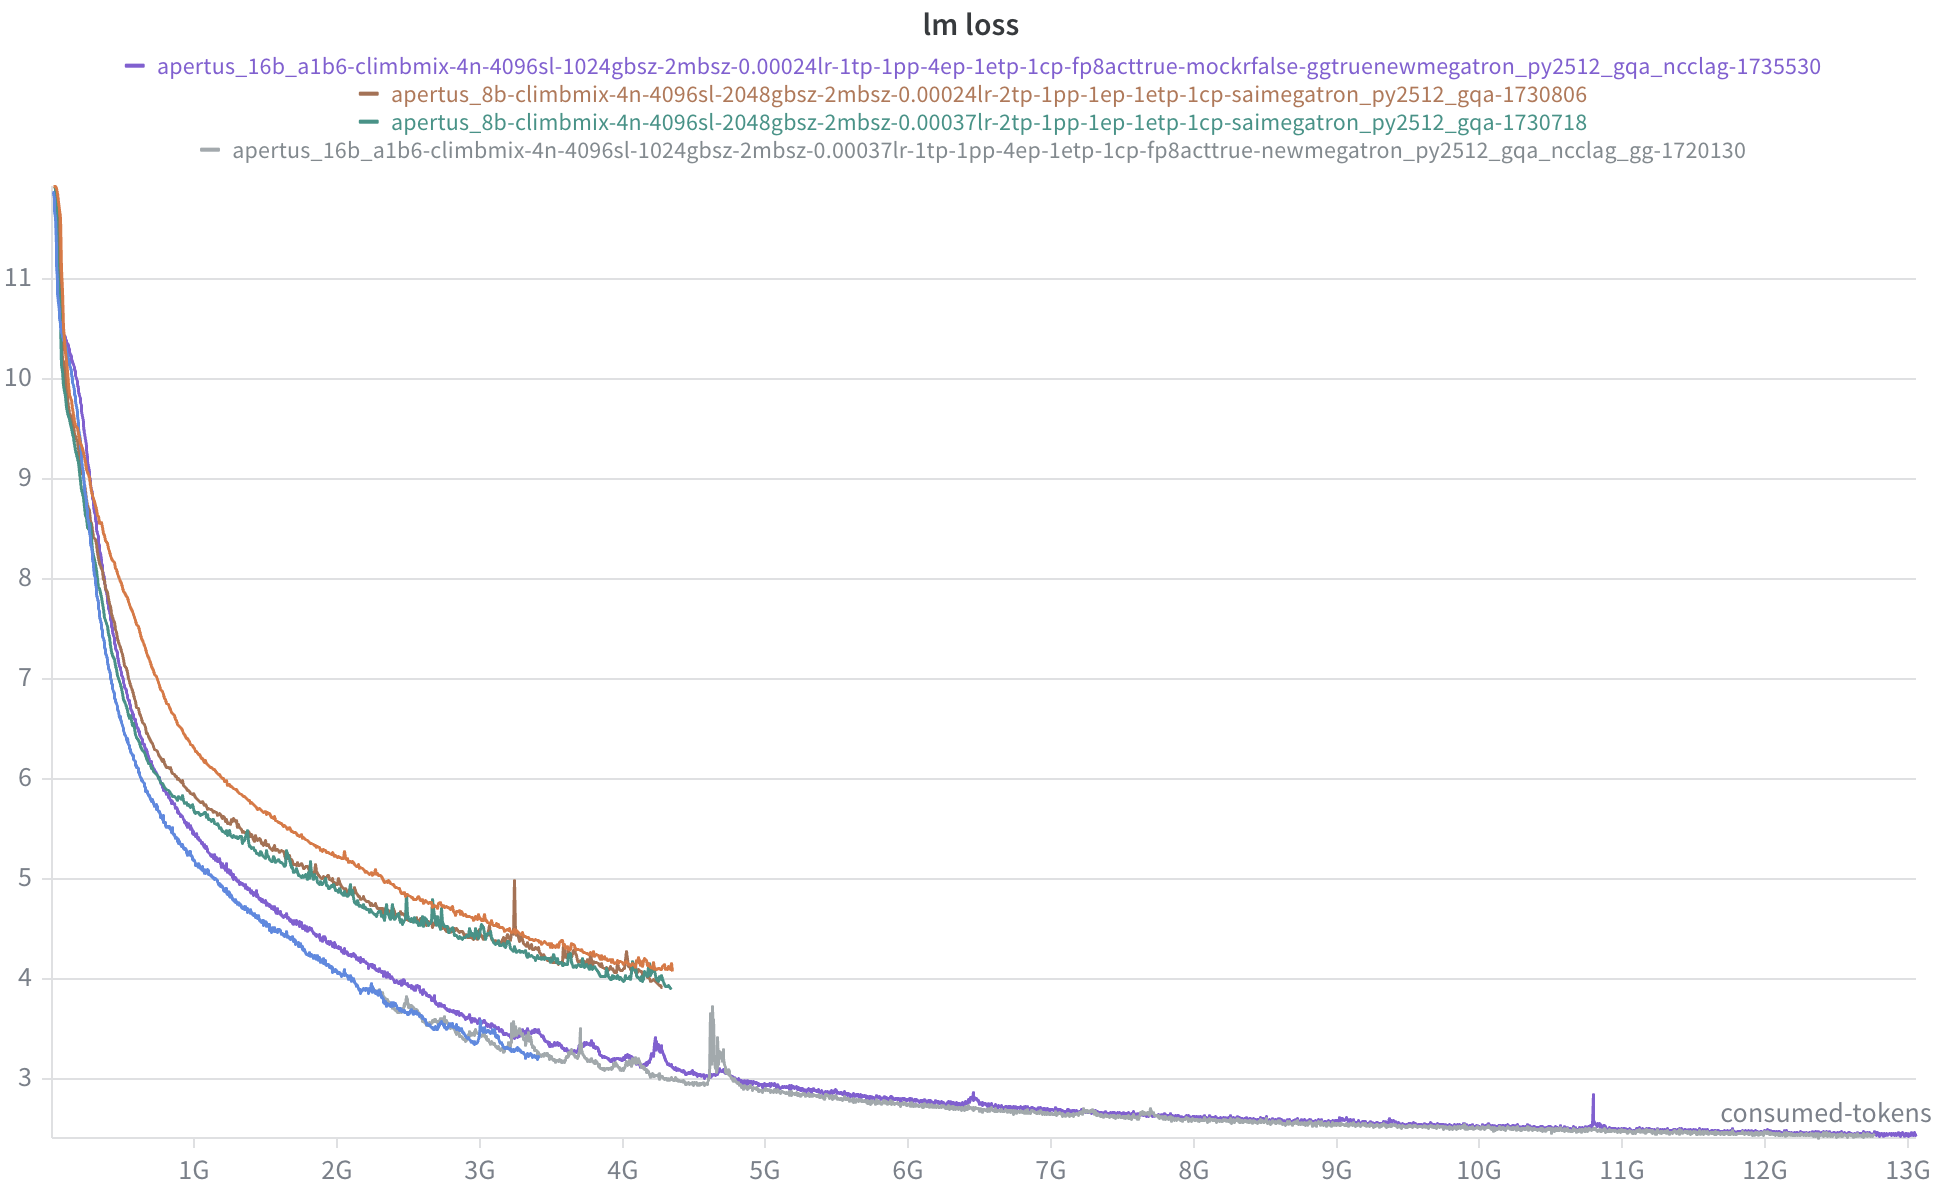
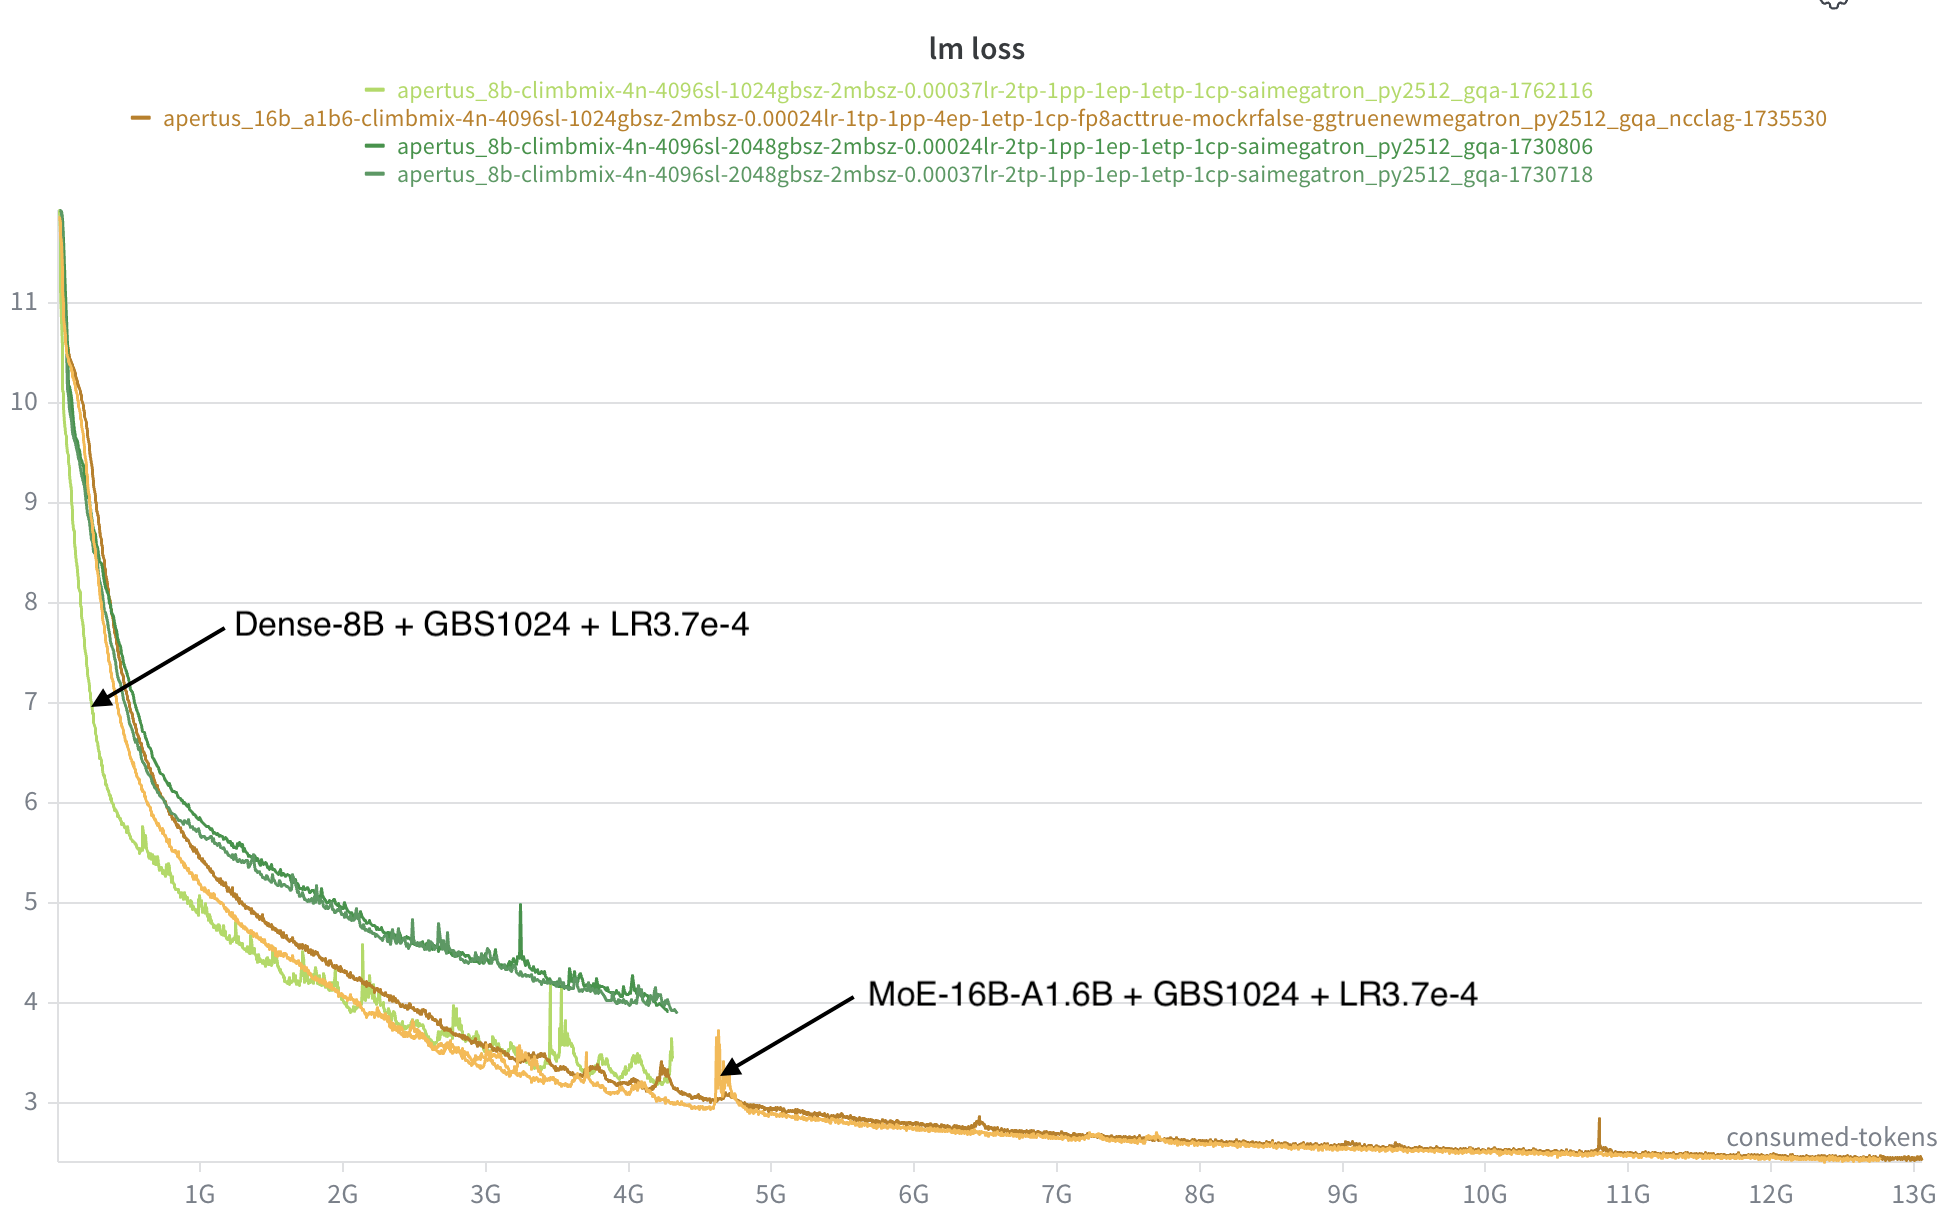
add moe arch ablations

Changed region(s): [[0.0, 0.1549, 1.0, 0.9916], [0.0616, 0.0, 0.924, 0.1549], [0.0, 0.7127, 0.0308, 0.7437]]

diff --git a/optimizer-ablations.md b/optimizer-ablations.md
@@ -1,0 +1,130 @@
+# Optimizer Ablation Experiments
+
+We mainly consider 2 optimizers for now: Adam and Muon.
+
+**Adam:**
+$$
+\begin{align*}
+& M_t = \beta_1M_{t-1} + (1-\beta_1)G_t \\
+& V_t = \beta_2V_{t-1} + (1-\beta_2)G_t^2 \\
+& W_t = W_{t-1} - \frac{\eta}{\sqrt{V_t} + \epsilon}(M_t + \lambda W_{t-1})
+\end{align*}
+$$
+**Muon:**
+$$
+\begin{align*}
+& M_t = \beta M_{t-1} + G_t \\
+& W_t = \begin{cases}
+
+& W_{t-1} - \eta_t ({\rm msign}(M_t) +\lambda W_{t-1}), & \rm{Naive} \\
+
+& W_{t-1} - \eta_t (\sqrt{{\rm max}(1, d_{out}/d_{in})}{\rm msign}(M_t) +\lambda W_{t-1}), & \rm{KellerJordan} \\
+
+& W_{t-1} - \eta_t (\sqrt{ d_{out}/d_{in}}{\rm msign}(M_t) +\lambda W_{t-1}), & \rm{MuP} \\
+
+& W_{t-1} - \eta_t (\sqrt{{\rm max}(d_{out}, d_{in})}{\rm msign}(M_t) +\lambda W_{t-1}), & \rm{Spectral} \\
+
+& W_{t-1} - \eta_t (0.2 \times \sqrt{{\rm max}(d_{out}, d_{in})}{\rm msign}(M_t) +\lambda W_{t-1}), & \rm{Moonlight}
+
+\end{cases}
+
+\end{align*}
+$$
+
+
+## Adam to Muon Ablations
+
+First we want to see how is Muon better than Adam.
+
+### Setup
+
+- **MoE-7B-A1.5B-se**
+  - 4 nodes, EP2
+
+### Exp 06/04/2026
+
+- GBS1024 + LR1.1e-4
+- Muon is much more stable
+
+<img src="./figs/moemuon_loss0408-1.png" alt="exploss2" style="zoom:50%;" />
+
+## Muon LR/Scaling Factor Ablations
+
+Muon has different versions of implementations, where mainly the scaling factor varies. The important thing is how do they diff and how should the hyper-parameter set.
+
+### Setup
+
+- **MoE-7B-A1.5B-se**
+  - 4 nodes, EP2
+  - KimiLaw to determine LR and GBS: GBS1280, LR7.3e-4
+
+### Exp 07/04/2026
+
+- Scale LR by 10x for 'shape_scaling'
+
+![moemuon_loss0408-03](./figs/moemuon_loss0408-03.png)
+
+## Muon on Split Expert Weights
+
+Muon performs differently depending on how the expert weights are allocated. In Megatron, we can either allocate experts as a big tensor: $(N_{le}\cdot d_{moe}, d_{model})$ or allocate separately: $N_{le} \cdot (d_{moe}, d_{model})$ where $N_{le}$ stands for number of local experts.
+
+- The first case makes the expert weight a large rectangular matrix: $\frac{N_e d_{moe}}{d_{model}} = kN_{le} $, which implies that the optimizer update can vary with EP size and it is not ideal.  
+- While the second case makes the weight more square: $\frac{d_{moe}}{d_{model}} = k$. 
+
+As Muon uses orthogonalization on the while matrix, the split weights should be the correct scenario for Muon to work best. But we want to see if it indees makes a difference.
+
+### Exp 11/04/2026
+
+- **MoE-7B-A1.5B-le**
+  - 4 nodes, EP2, GBS1280, LR7.3e-4, Moonlight scaling
+  - $k = 1$, $N_{le} = 16$
+  - Split (Red) vs. Single (Blue) Expert weight
+- **Observations**
+  - Split (Red) and Single (Blue) have close LM loss. Split is slightly better.
+  - Single (Blue) has a lower load balancing loss. 
+
+<img src="./figs/moemuon0410-03.png" alt="exploss2" style="zoom:50%;" />
+
+<img src="./figs/moemuon0410-02.png" alt="exploss2" style="zoom:50%;" />
+
+<img src="./figs/moemuon0410-01.png" alt="exploss2" style="zoom:50%;" />
+
+## Mixed Muon + Adam Ablations
+
+Router weight is a rectangular weight of shape $(d_{model},N_e)$  with $d/N = [8-16]$. It has similar implications with split experts weight. 
+
+### Exp 13/04/2026
+
+- **MoE-7B-A1.5B-se**
+  - Use Adam for router (Green) vs. Muon (Red) for router
+  - Split expert weights for both.
+  - $d/N = 2048/128 =16$
+    - Kimi-K2 has a shape of $d/N = 7168/384 = 18.6$
+  - 4 nodes, EP2, GBS1280, L7.3e-4, Moonlight scaling
+- **Observations**
+  - Both have almost identical LM loss
+  - With Adam, LBL loss is **<u>higher</u>**. 
+    - But with Adam, all the experts in each layer will be trained with similar number of tokens (more balanced in terms of trained tokens for experts). 
+    - Compared to use Adam for all, router with Adam has a much more stable LBL loss. 
+
+<img src="./figs/moemuon0410-04.png" alt="exploss2" style="zoom:50%;" />
+
+<img src="./figs/moemuon0410-05.png" alt="exploss2" style="zoom:50%;" />
+
+<img src="./figs/moeheatmap-0410-01.png" alt="exploss2" style="zoom:50%;" />
+
+460GB = W_e + G_e + O_e = 5 * W_e
+
+W_e = L * W, W = 460/5/20 = 4.6GB/layer
+
+e = 4.6/128 =0.0359 GB/expert
+
+d = 7168, d_e = 2048, e = d*d_e
+
+### Exp 14/04/2026
+
+- **MoE-7B-A1.5B-le**
+  - Use Adam for router (Green) vs. Muon (Red) for router
+  - Split expert weights for both.
+  - $d/N = 2048/32 =64$. The router has a **<u>much more rectangular</u>** shape compared to MoE-7B-A1.5B-se
+  - 4 nodes, EP2, GBS1280, L7.3e-4, Moonlight scaling

diff --git a/dense-to-moe-ablations.md b/dense-to-moe-ablations.md
@@ -112,7 +112,8 @@ Prior work declares that: *an MoE model with a 3.1% activation ratio and an expe
   - 16B-1.6B MoE model surpasses 8B dense model within the same amount of tokens
   - As MoE model has a higher token throughput, MoE model is trained with more tokens
   - Dense MFU (40%) is higher than MoE MFU (18%)
-- As shown below, with different LR, 16B-1.6B MoE models still surpass 8B dense model
+- As shown below, 
+  - **with different LR and GBS, 16B-1.6B MoE models still surpass 8B dense model**
 
 <img src="./figs/dtom_loss2.png" alt="exploss2" style="zoom:50%;" />
 
@@ -173,24 +174,111 @@ Then:
 
 
 
+#### Exp 30/03/2026
+
+1. **MoE-80B-A6B with varing configs**
+
+<img src="./figs/dtom_loss0401-1.png" alt="exploss2" style="zoom:50%;" />
+
+2. **Dense-16B with varing configs**
+
+   <img src="./figs/dtom_loss0401-2.png" alt="exploss2" style="zoom:50%;" />
+
+3. **Dense-16B vs. MoE-80B-A6B**
+
+   - Purple for Dense and Red for MoE
+   - For all configs, MoE would surpass Dense at different points
+
+   <img src="./figs/dtom_loss0401-3.png" alt="exploss2" style="zoom:50%;" />
+
+5. **Dense-16B vs. MoE-16B-A1.6B**
+
+   - All with GBS1024. Varing LR
+   - Dense-16B and MoE-16B-A1.6B are **at least comparable** 
+     - Dense-16B has the trend to surpass MoE
+
+   <img src="./figs/dtom_loss0401-5.png" alt="exploss2" style="zoom:50%;" />
+
+6. **Dense-8B + MoE-16B-A1.6B vs. Dense-16B + MoE-80B-A6B**
+
+   - Start with the stable run that is less spiky for each model.
+
+   - The general trend is: MoE-80B-A6B > MoE-16B-1.6B ~ Dense-16B > Dense-8B
+     - This is what we are expecting
+     - But we **cannot draw a solid conclusion within 10B tokens**
+       - An estimation of token budget might be **~15B-20B** to find clear signal
+
+<img src="./figs/dtom_loss0401-4.png" alt="exploss2" style="zoom:50%;" />
+
+5. **Dense-8B + MoE-16B-A1.6B vs. Dense-16B + MoE-80B-A6B**
+   - Let's check more configurations [[link](https://wandb.ai/fuguan323-ethz/dense_to_moe_ablation/panel/l8i2031v8?nw=nwuserfuguan323)]
 
 
-#### Exp 30/03/202
 
-1. **Dense-16B, Dense-8B, MoE-16B-A1.6B, MoE-80B-A6B**
-   - **GBS1024, LR3.7e-4**
-   - All models present simialr loss trend and are spiky. Could be the results of large LR.
+# MoE Model Ablations
 
-	<img src="./figs/dtom_loss0330.png" alt="exploss2" style="zoom:50%;" />
+Reference
 
-2. **Dense-16B, Dense-8B, MoE-16B-A1.6B, MoE-80B-A6B**
-   - **GBS1024, LR1.1e-4**
+## Theoratical Analysis
 
+We define something that we want to check. 
 
+- **Expert Granularity:** it is a measurement of how fine-grained the MoE layer is. Defined as $G=\frac{d_{model}}{d_{expert}}$
 
+  1. The common trend is to have fine-grained MoE layer. For instance, DeepSeek-V3 has $G = 7168/2048 =3.5$ and Qwen-3.5 has $G = 4096/1024 =4$. Some works [[ling](https://arxiv.org/abs/2507.17702v4), ] also indicate that larger G is better, and the optimal G is between 4 - 6. 
 
+  2. But the problem is, a smaller G is better for our infrastructure. Large expert can enable a higher training throughput when activated parameter size is the same.
 
+## MoE Expert Granularity Ablations 
 
+### Setup
+
+- **MoE-7B-A1.5B** with varying expert granularity 
+  - Megatron cannot define shared expert number. In this case, corse-grained MoE will have a slightly large activated parameter size.
+
+```
+"hidden_size": 2048,
+"moe_intermediate_size": 512/1024/2048,
+"num_hidden_layers": 16,
+"num_experts": 128/64/32,
+"num_experts_per_tok": 16/8/4,
+"shared_expert": 1,
+```
+
+- 4 nodes with EP2
+- GBS1280, LR7.3e-4, Muon Optimizer
+
+### Throughput Comparison
+
+| Model           | Throughput         |
+| --------------- | ------------------ |
+| MoE-7B-A1.5B-se | 20600 tokens/s/gpu |
+| MoE-7B-A1.5B-me | 26660 tokens/s/gpu |
+| MoE-7B-A1.5B-le | 28261 tokens/s/gpu |
+
+### Exp 08/04/2026
+
+- Red: G=4, Green: G=2, Blue: G=1
+- Single Expert weight.
+- Within 6.5B, corse-grained MoE has the lowest loss. It is against the common trend. 
+
+<img src="./figs/moeloss0409-1.png" alt="exploss2" style="zoom:50%;" />
+
+### Exp 09/04/2026
+
+- Disable shared expert to guarantee exactly same activated parameter size.
+
+### Exp10/04/2026
+
+- Use shared expert of the same size to guarantee exactly same activated parameter size.
+- Split Expert weight.
+
+<img src="./figs/moeloss0410-01.png" alt="exploss2" style="zoom:50%;" />
+
+### Exp 10/04/2026
+
+- Use Adam instead of Muon.
+- GBS2048, LR3.5e-4
 
 
 

diff --git a/performance.md b/performance.md
@@ -74,6 +74,8 @@ Mock router is for performance inspection. The idea is to manipulate logit in ro
 
 
 
+## 3. MoE Layer with Legacy GroupGEMM
+
 
 
 
